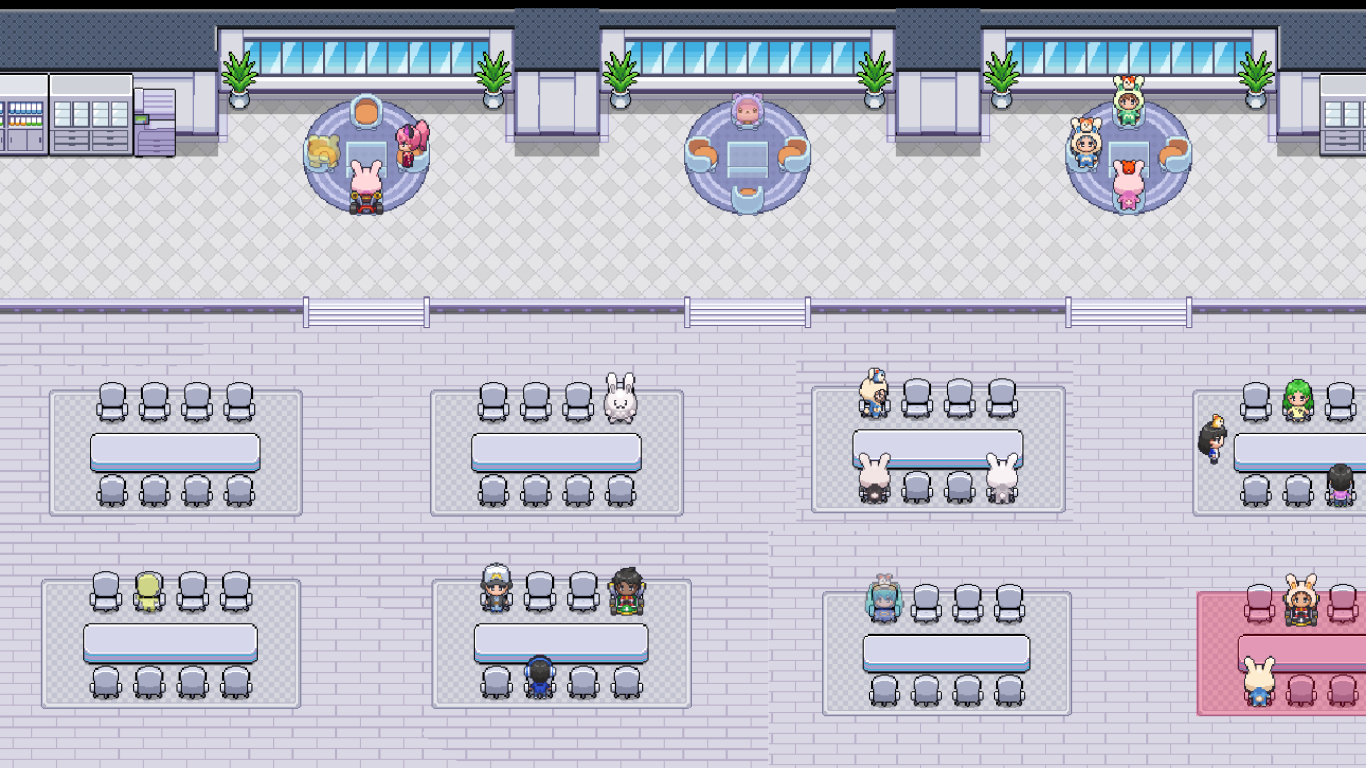
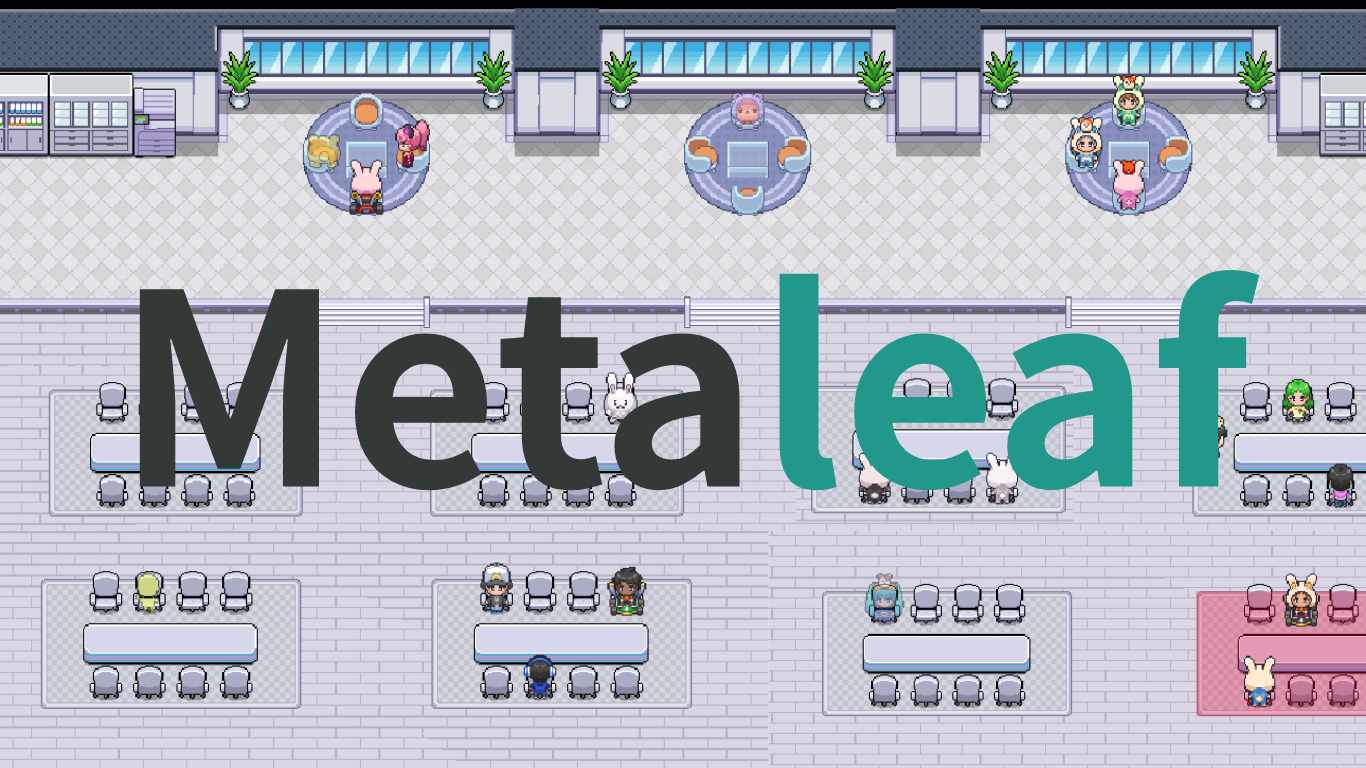
最終追加

Changed region(s): [[0.0922, 0.3438, 0.9224, 0.6562]]

diff --git a/index.html b/index.html
@@ -47,7 +47,7 @@
     <main>
 
         <div class="mainvisual">
-            <img src="img/mainvisual.jpg" alt="メインビジュアル">
+            <img src="img/mainvisual.png" alt="メインビジュアル">
         </div>
         <section class="main-title wrapper">
             <h2 class="item">メタリーフとは</h2>
@@ -65,13 +65,13 @@
         <section class="article wrapper">
             <h2 class="topics-2">参加者の声</h2>
             <div class="icon-img fadeIn" >
-                <img src="img/1.png" alt="アバター">
+                <img src="img/icon-avatar01.png" alt="アバター">
                 <div class="speechBubble">
                     <p>横のつながりができて実際に相談することで早期解決に繋がりました！</p>
                 </div>
             </div>
             <div class="icon-img fadeIn">
-                <img src="img/2.png" alt="アバター">
+                <img src="img/icon-avatar02.png" alt="アバター">
                 <div class="speechBubble">
                     <p>様々な技術レベルの人たちが集まれる場所なので、お互い切磋琢磨しながら
                         <br>モチベーションキープに繋がっています！
@@ -79,7 +79,7 @@
                 </div>
             </div>
             <div class="icon-img fadeIn">
-                <img src="img/3.png" alt="アバター">
+                <img src="img/icon-avatar03.png" alt="アバター">
                 <div class="speechBubble">
                     <p>スキル面において相談する側にも教える側にもなれるので
                         <br>自然と技術向上に繋がります！
@@ -88,12 +88,13 @@
             </div>
         </section>
 
-        <div class="group-photo wrapper">
-            <div class="photo">
-                <img src="img/image_36.png" alt="">
-            </div>
+        <div class="photos wrapper">
+            <ul class="photo">
+                <img src="img/usagi_orange.png" alt="おっきいうさぎ">
+                <img src="img/usagi_blue.png" alt="おっきいうさぎ">
+            </ul>
             <div class="btn">
-                <a href="#contact" class="join-btn">今すぐ参加する</a>
+                <a href="event_info.html#contact" class="join-btn">今すぐ参加する</a>
             </div>
         </div>
     </main>

diff --git a/css/style.css b/css/style.css
@@ -259,6 +259,9 @@ top page
 
 /* mainvisual */
 .mainvisual img {
+    
+}
+.mainvisual img {
     width: 100%;
     margin-top: 250px;
     object-fit: cover;
@@ -377,10 +380,15 @@ top page
   }
 
 
-/* group-photo */
-.group-photo img {
-    width:100%;
-    margin-top: 100px;
+/* photos */
+.photo {
+    display: flex;
+    justify-content: center;
+    margin-right: 40px;
+}
+.photo img {
+    width:100px;
+    margin-top: 80px;
 }
 
 

diff --git a/howto_faq.html b/howto_faq.html
@@ -134,7 +134,7 @@
 
         
             <div class="btn">
-                <a href="#contact" class="join-btn">今すぐ参加する</a>
+                <a href="event_info.html#contact" class="join-btn">今すぐ参加する</a>
             </div>
 
 
